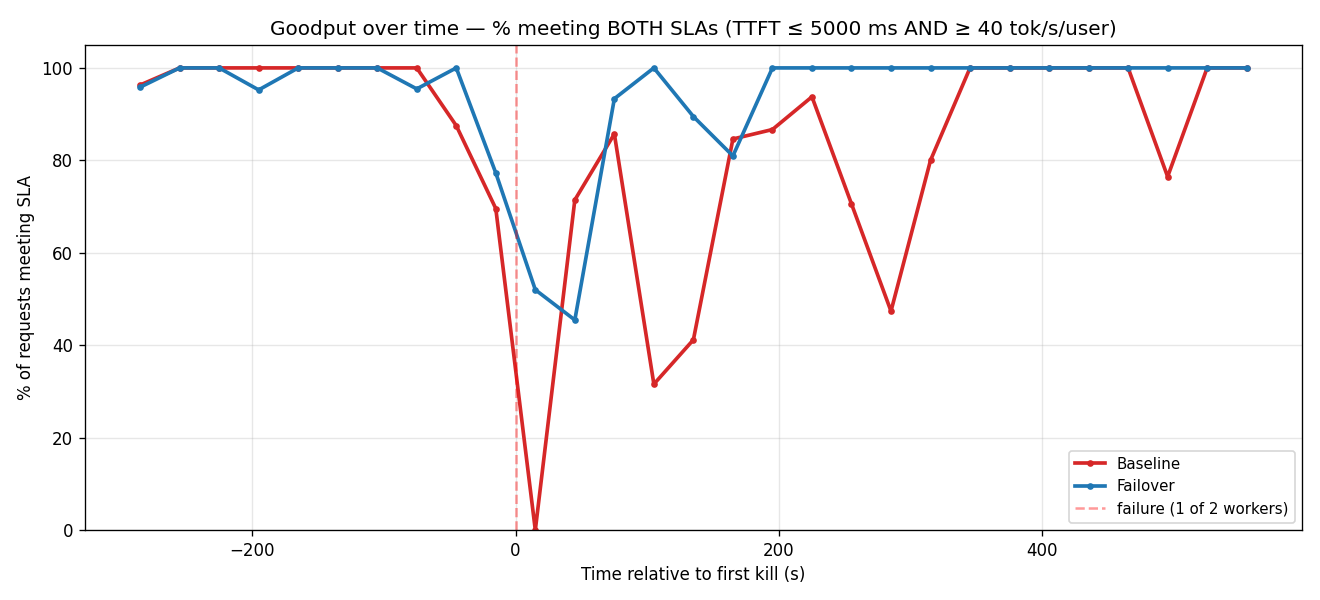
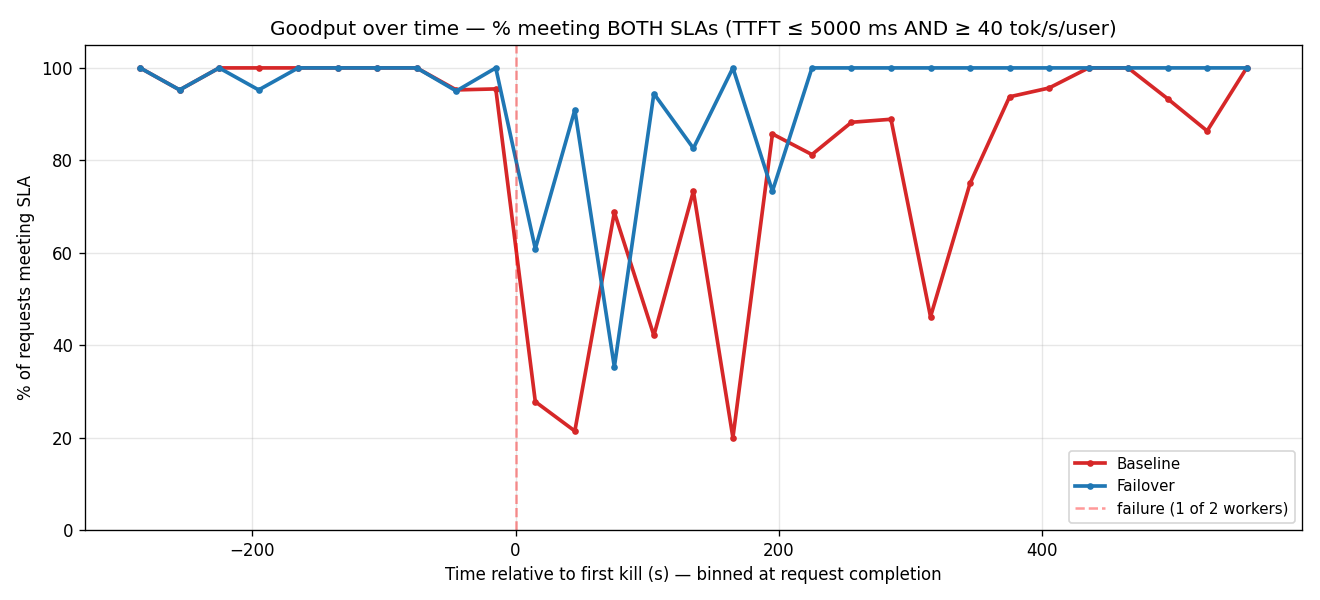
docs(benchmarks): bin SLA goodput charts at completion time
Fixes a phantom pre-fault drop in the goodput-over-time chart: SLA
outcome (esp. decode rate) is realized at completion, so binning by
start time leaked post-fault degradation of long, still-generating
requests into pre-fault bins. Now binned at completion; the drop begins
exactly at the fault and the pre-fault gap is 0.0pp.

diff --git a/benchmarks/kimi-single-failure-2node/README.md b/benchmarks/kimi-single-failure-2node/README.md
@@ -56,9 +56,10 @@ result: at 50% capacity loss the pain is decode, not TTFT).
 
 ## Goodput — % of requests meeting SLA
 
-SLA = TTFT ≤ 5 s **and** decode ≥ 40 tok/s/user. Pre-kill the two arms are identical; through the
-survivor-overload window the baseline dips repeatedly to 30–50% while failover recovers to ~90–100%
-within ~60 s.
+SLA = TTFT ≤ 5 s **and** decode ≥ 40 tok/s/user. Pre-kill the two arms are identical (0.0 pp gap); the
+drop begins exactly at the fault, and through the survivor-overload window the baseline dips repeatedly
+to 30–50% while failover recovers to ~90–100% within ~60 s. Charts are binned at each request's
+**completion** time (a request's SLA outcome is realized when it finishes, not when it starts).
 
 ![](sla/goodput_pct.png)
 
@@ -72,11 +73,11 @@ Measured from the kill through recovery. TPS (decode) is the differentiator — 
 
 | | meets TTFT SLA | meets TPS SLA | **meets both (goodput)** |
 |---|---|---|---|
-| **failover** | 97.5% | 93.3% | **93.1%** |
-| **baseline** | 97.2% | 77.4% | **76.7%** |
+| **failover** | 96.1% | 92.0% | **91.7%** |
+| **baseline** | 95.0% | 74.8% | **74.1%** |
 
 The breakdown shows the baseline's window filling with **"TPS < 40"** (slow decode), not failures —
-without failover, ~1 in 4 requests misses the SLA during the incident, vs ~1 in 14 with failover.
+without failover, ~1 in 4 requests misses the SLA during the incident, vs ~1 in 12 with failover.
 
 ## Cumulative goodput
 
